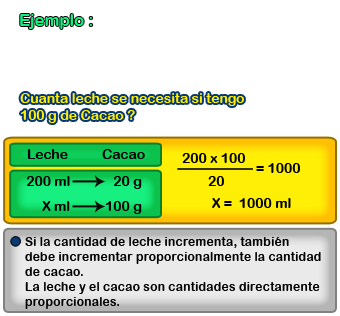
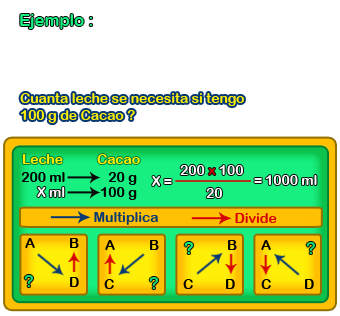
menu v61

diff --git a/scripts/porcent2DB.js b/scripts/porcent2DB.js
@@ -7,16 +7,16 @@ const introPorcentaje = {
     defPorcentajeTitulo: "Que es porcentaje ?",
     defPorcentaje: "El porcentaje es la forma de expresar un número como una fracción que tiene como denominador el número 100, conocido también, como tanto por ciento. ",
     defPorcentaje2Titulo: "Regla de tres",
-    defPorcentaje2: "La regla de tres puede ser:<br><br>Simple directa,<br>Simple inversa,<br>Compuesta directa,<br>Compuesta inversa.",
+    defPorcentaje2: "La regla de tres es una forma de resolver problemas de proporcionalidad entre tres valores conocidos y una incógnita. En ella se establece una relación de linealidad, proporcionalidad, entre los valores involucrados.",
 
-    defNotaTitulo: "Regla de tres Compuesta",
-    defNota: "Simple directa es cuando son directamente proporcionales.<br><br>Simple inversa es cuando sus magnitudes inversamente proporcionales,<br>",
+    defNotaTitulo: "Directa o Inversa",
+    defNota: "La relación de proporcionalidad puede ser directa o inversa. Será directa cuando a un mayor valor de A habrá un mayor valor de B, y será inversa cuando a un mayor valor de A corresponda un menor valor de B.",
     defGuiaTitulo: "Forma de uso :",
-    defGuia: "Con el boton de <span>Casos</span> seleccionas diferentes variantes de la regla de tres y mostrara calculadoras.<br>Con el boton <span>Menu</span> regrezaras al menu principal."
+    defGuia: "Con el boton de <span>Mas..</span> mostrara calculadoras y ejemplos de diferentes casos de la regla de tres,<br>Con el boton <span>Menu</span> regrezaras al menu principal."
 };
 
 const RD3SimpleDirectaObj = {
-    id: "simple_directa",
+    id: "ejemplo_simple_directa",
     titleFig: "Simple directa",
     imgFig: "../assets/SimpleDirecta.png",
 
@@ -45,8 +45,37 @@ const RD3SimpleDirectaObj = {
     funcionPorcentaje: "pcSD",
 };
 const RD3SimpleInversaObj = {
-    id: "simple_inversa",
+    id: "ejemplo_simple_inversa",
     titleFig: "Simple inversa",
+    imgFig: "../assets/SimpleInversa.png",
+
+    titlePorcentaje: "Regla de tres Simple inversa",
+    formulaPorcentaje: "Inserta los 3 datos conocidos",
+    inputPorcentaje: [
+        {
+            inputLabel: "A",
+            inputId: "winSIvalorA"
+        },
+        {
+            inputLabel: "B",
+            inputId: "winSIvalorB"
+        },
+        {
+            inputLabel: "C",
+            inputId: "winSIvalorC"
+        },
+        {
+            inputLabel: "D",
+            inputId: "winSIvalorD"
+        }
+    ],
+    resultClPC: "resultPCSI",
+    btnClPC: "btnResultPCSI",
+    funcionPorcentaje: "pcSI",
+};
+const RD3CompuestaDirectaObj = {
+    id: "ejemplo_compuesta_directa",
+    titleFig: "Compuesta directa",
     imgFig: "../assets/SimpleInversa.png",
 
     titlePorcentaje: "Regla de tres Simple inversa",
@@ -77,6 +106,7 @@ const RD3SimpleInversaObj = {
 introPorcentajeArray.push(introPorcentaje);
 introPorcentajeArray.push(RD3SimpleDirectaObj);
 introPorcentajeArray.push(RD3SimpleInversaObj);
+introPorcentajeArray.push(RD3CompuestaDirectaObj);
 
 
 

diff --git a/pages/porcent2.html b/pages/porcent2.html
@@ -14,15 +14,16 @@
         <img class="nav_logo" src="../assets/jslogo2.svg" alt="">
         <div class="btnMenu">
             <a class="homeLink" href="../index.html">Menu</a>
-            <p class="nCaso">Casos</p>
+            <p class="nCaso">Mas..</p>
         </div>
     </nav>
     <section class="listIndex">
         <p class="seleccion selMod" >Introduccion</p>
         <h2 class="sel" ></h2>
-        <p class="seleccion" >Simple_directa</p>
-        <p class="seleccion" >Simple_inversa</p>
-        <p class="seleccion" >Compuesta directa</p>
+        <p class="seleccion" >Calculadora</p>
+        <p class="seleccion" >Ejemplo_Simple_Directa</p>
+        <p class="seleccion" >Ejemplo_Simple_Inversa</p>
+        <p class="seleccion" >Ejemplo_Compuesta_Directa</p>
         <p class="seleccion" >Compuesta inversa</p>
         <h2 class="sel" ></h2>
         <p class="seleccion selMod" >Contactanos</p>
